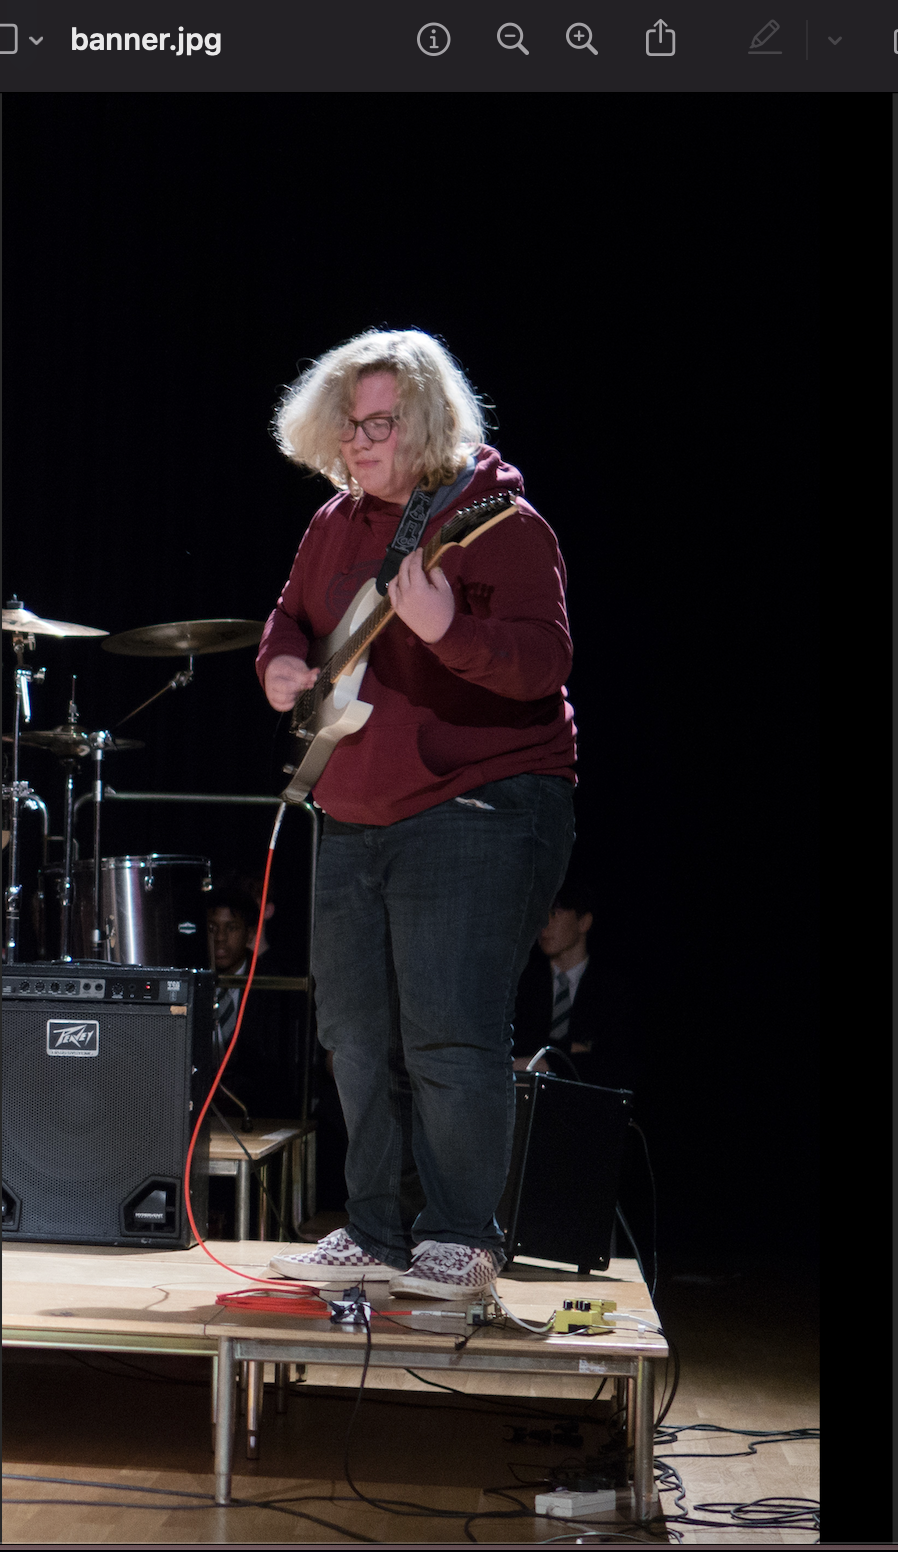
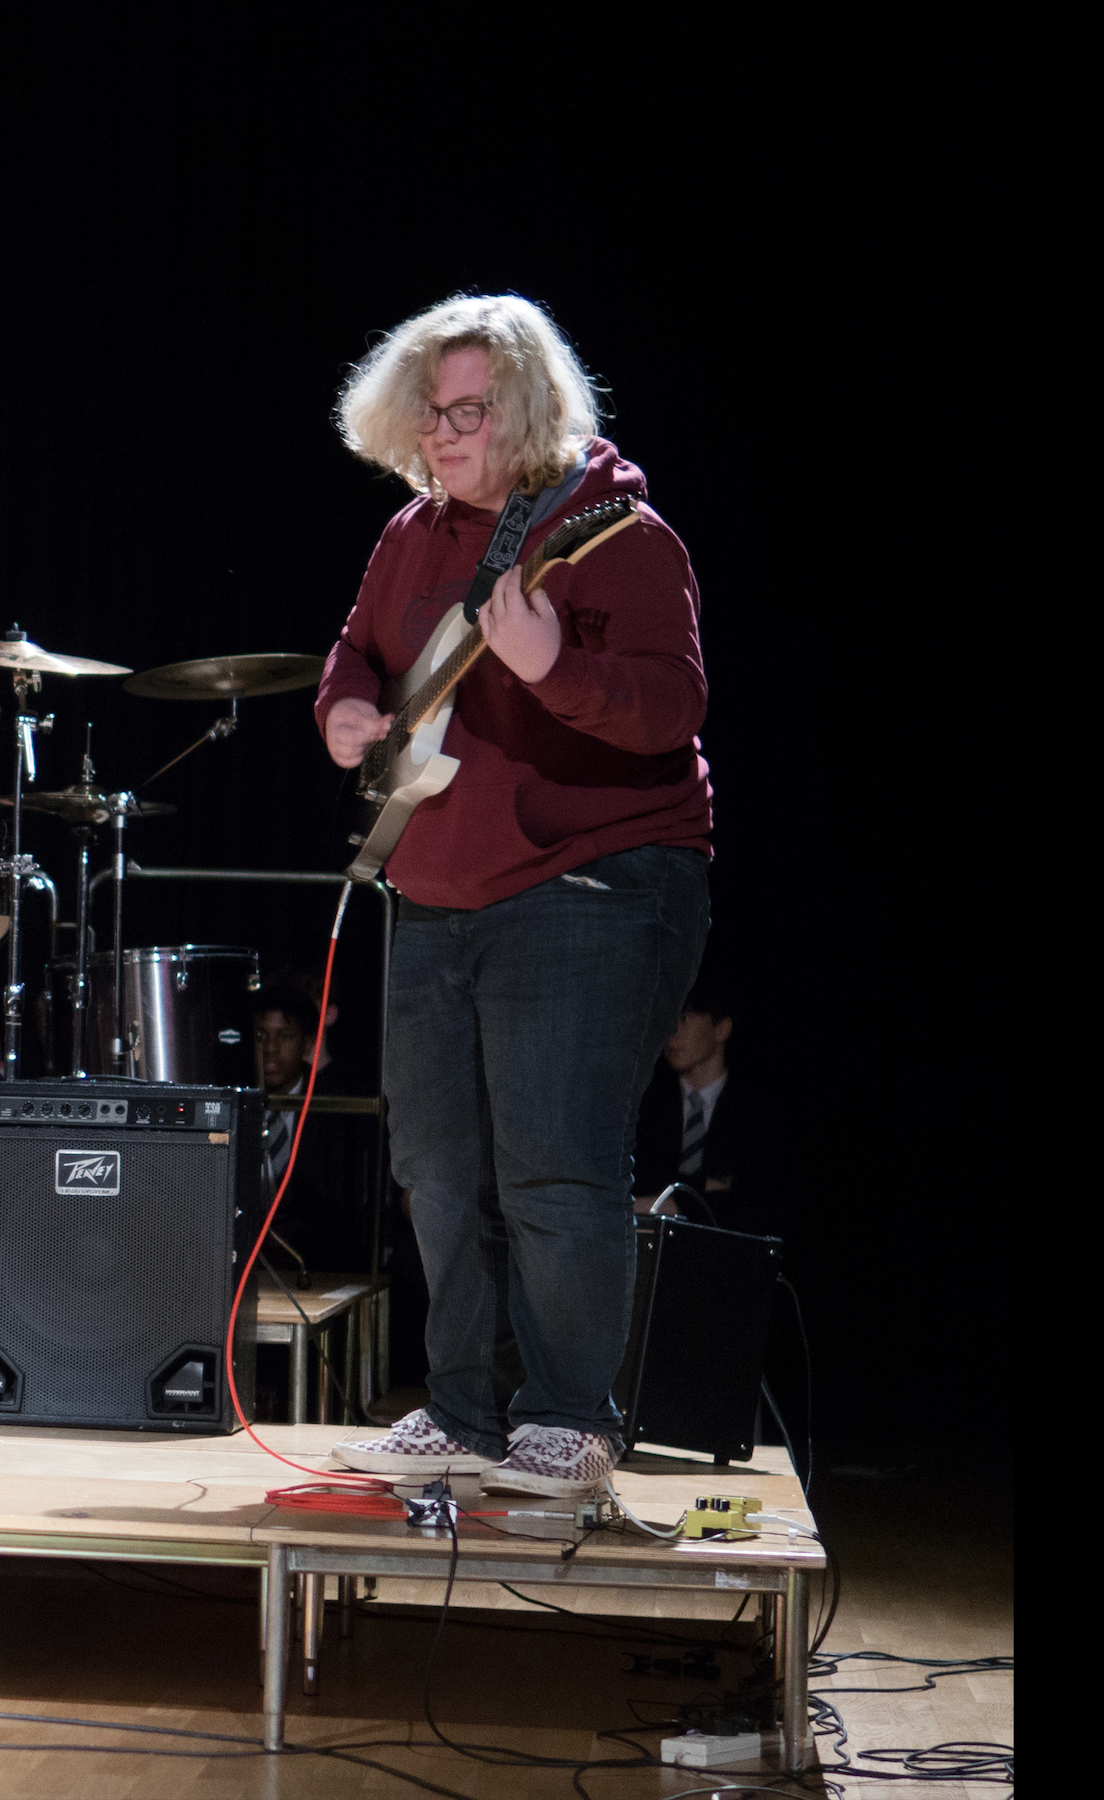
PLEASE BE FINAL CHANGES
PLEAAAAASE

diff --git a/index.html b/index.html
@@ -44,7 +44,7 @@
 							</ul>
 						</div>
 						<div class="image">
-							<img src="images/banner.jpg"/>
+							<img src="images/banner.jpg" style="object-position: 0px -100px;"/>
 						</div>
 					</section>
 
@@ -73,8 +73,8 @@
 							<iframe width="360" height="200" src="https://www.youtube.com/embed/_h1fZqAyHxU?si=dI7DINBknln8C5Gq&amp;start=35" title="YouTube video player" frameborder="0" allow="accelerometer; autoplay; clipboard-write; encrypted-media; gyroscope; picture-in-picture; web-share" allowfullscreen></iframe>
 							<iframe width="360" height="200" scrolling="no" frameborder="no" allow="autoplay" src="https://w.soundcloud.com/player/?url=https%3A//api.soundcloud.com/tracks/1014992539&color=%23ff5500&auto_play=false&hide_related=false&show_comments=true&show_user=true&show_reposts=false&show_teaser=true&visual=true"></iframe><div style="font-size: 10px; color: #cccccc;line-break: anywhere;word-break: normal;overflow: hidden;white-space: nowrap;text-overflow: ellipsis; font-family: Interstate,Lucida Grande,Lucida Sans Unicode,Lucida Sans,Garuda,Verdana,Tahoma,sans-serif;font-weight: 100;"><a href="https://soundcloud.com/lily-shapcott" title="Lily Shapcott" target="_blank" style="color: #cccccc; text-decoration: none;"></a> · <a href="https://soundcloud.com/lily-shapcott/the-offering" title="The Offering" target="_blank" style="color: #cccccc; text-decoration: none;"></a></div>
 							<p>Testimonials</p>
-      <p>Lily is incredibly passionate and dedicated to her craft and it shines through in everything she does. I'm genuinely impressed by her ability as a mixing engineer and her people skills make her a joy to work with. </p>
-<p> - Will, Joviac </p>
+    					    <p>Lily is incredibly passionate and dedicated to her craft and it shines through in everything she does. I'm genuinely impressed by her ability as a mixing engineer and her people skills make her a joy to work with. </p>
+                            <p> - Will, Joviac </p>
 							<ul class="actions stacked">
 								<li><a href="#third" class="button big smooth-scroll-middle">My live work experience</a></li>
 							</ul>
@@ -146,7 +146,7 @@
 						<div class="inner medium">
 							<h2>Contact Me</h2>
 							
-							<iframe src="https://docs.google.com/forms/d/e/1FAIpQLSeDI0p0d14hKXgeRKI_8hL4XKUOKN7DEXbphj0vqUxAAmkcgA/viewform?embedded=true" width="640" height="451" frameborder="0" marginheight="0" marginwidth="0">Loading…</iframe> 
+							<iframe src="https://docs.google.com/forms/d/e/1FAIpQLSeDI0p0d14hKXgeRKI_8hL4XKUOKN7DEXbphj0vqUxAAmkcgA/viewform?embedded=true" width="320" height="450" frameborder="0" marginheight="0" marginwidth="0">Loading…</iframe> 
   
 
 				<!-- Footer -->
